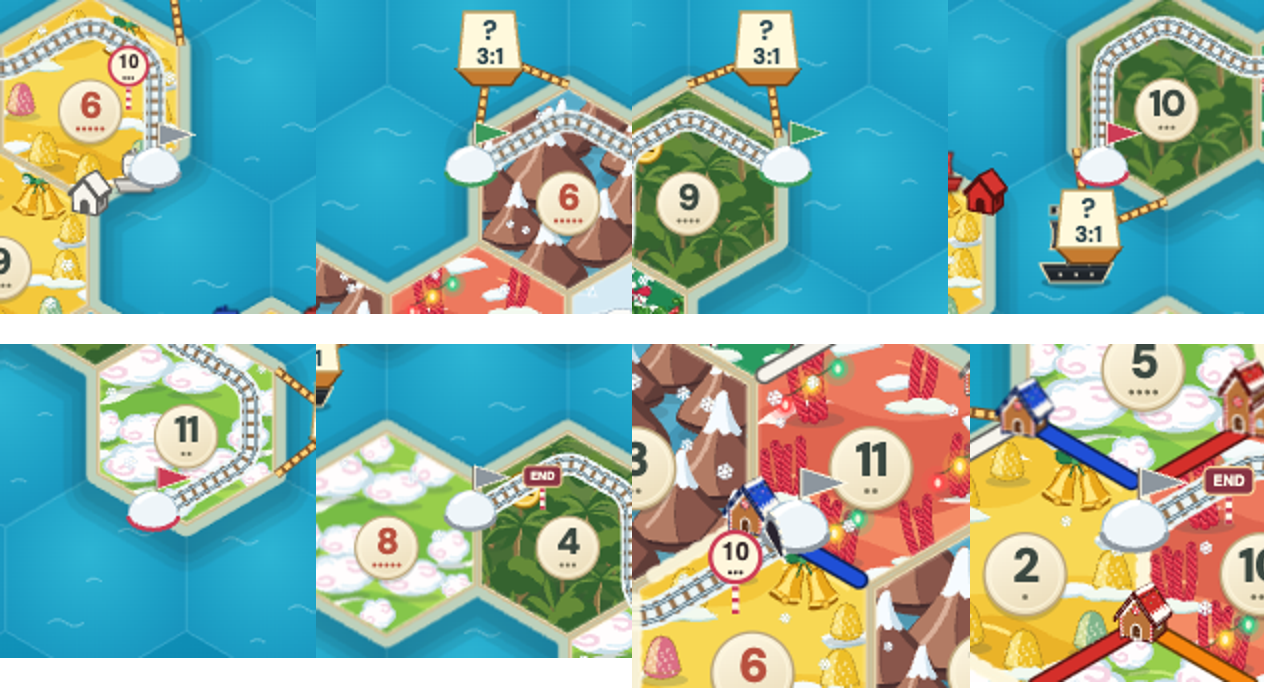
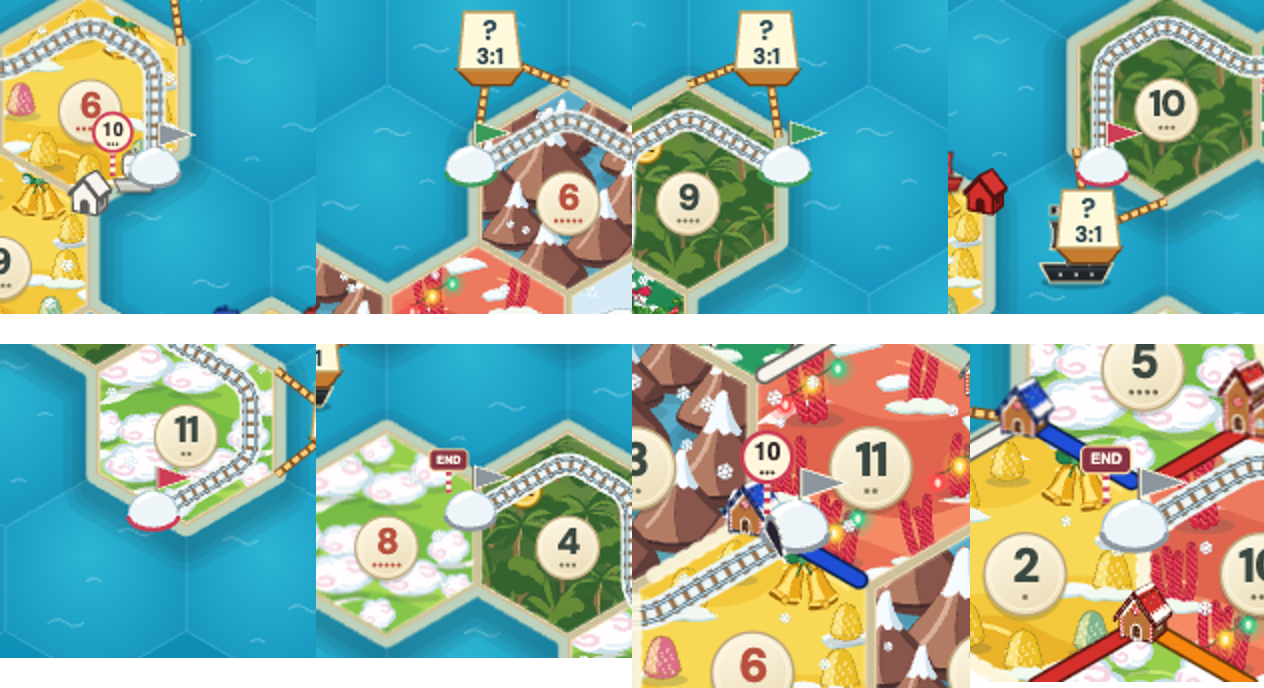
Candy train signs stand right beside their tunnels: they may cover the snowy mound but not the mouth, the rails the train comes out on, or the flag

diff --git a/src/art/v23/christmas/train-stations.tsx b/src/art/v23/christmas/train-stations.tsx
@@ -45,15 +45,25 @@ function moundAt(path: RailSample[], end: boolean): RailPoint {
   return { x: x + dx * MOUND.back, y: y + dy * MOUND.back };
 }
 
-/** The screen box a tunnel covers, mound and flag. */
-function tunnelBox(path: RailSample[], end: boolean): Box {
+/** Boxes a sign must stay off: the tunnel mouth with the rails the train comes out on, and the flag. */
+function keepClear(path: RailSample[], end: boolean): Box[] {
+  const { x, y, dx, dy } = railEnd(path, end);
   const m = moundAt(path, end);
-  return {
-    left: m.x - MOUND.radius,
-    right: Math.max(m.x + MOUND.radius, m.x + 2.6 + FLAG.long),
-    top: m.y - MOUND.rise - FLAG.pole,
-    bottom: m.y + MOUND.radius * 0.55,
-  };
+  const face = { x: x + dx * 2.4, y: y + dy * 2.4 };
+  const length = path.at(-1)!.distance;
+  const rails = path
+    .filter(p => (end ? length - p.distance : p.distance) < 30)
+    .map(p => ({ left: p.x - 7, right: p.x + 7, top: p.y - 14, bottom: p.y + 6 }));
+  return [
+    ...rails,
+    { left: face.x - ARCH.half, right: face.x + ARCH.half, top: face.y - ARCH.high, bottom: face.y + 4 },
+    {
+      left: m.x,
+      right: m.x + 2.6 + FLAG.long,
+      top: m.y - MOUND.rise - FLAG.pole - 1,
+      bottom: m.y - MOUND.rise - FLAG.pole + FLAG.deep + 1,
+    },
+  ];
 }
 
 const overlap = (a: Box, b: Box) =>
@@ -61,24 +71,28 @@ const overlap = (a: Box, b: Box) =>
   Math.max(0, Math.min(a.bottom, b.bottom) - Math.max(a.top, b.top));
 
 /**
- * Where a station's sign stands: beside the track near its tunnel, clear of the mound and flag.
- * It tries the tile's side of the rails (`side`, as railPath offsets them) first, stepping back
- * along the track, then the other side; failing all, the spot covering the least of the tunnel.
+ * Where a station's sign stands: as close to its tunnel as it can without covering the mouth, the
+ * rails the train comes out on, or the flag (the snowy mound may be covered). Ties go to the tile's
+ * side of the rails (`side`, as railPath offsets them); failing all, the spot covering the least.
  */
 function stationSpot(path: RailSample[], end: boolean, side: 1 | -1): RailPoint {
-  const length = path.at(-1)!.distance;
-  const tunnel = tunnelBox(path, end);
-  let best: RailPoint = { x: 0, y: 0 };
-  let least = Number.POSITIVE_INFINITY;
-  for (const s of [side, -side])
-    for (const back of [2, 10, 18, 26]) {
-      const p = onRail(path, end ? Math.max(0, length - back) : Math.min(length, back));
-      const spot = { x: p.x - Math.sin(p.angle) * s * 15, y: p.y + Math.cos(p.angle) * s * 15 };
+  const { x, y, dx, dy } = railEnd(path, end);
+  const m = moundAt(path, end);
+  const clear = keepClear(path, end);
+  // The tile's side of the rails, as a direction across the track.
+  const along = onRail(path, end ? path.at(-1)!.distance : 0).angle;
+  const tile = { x: -Math.sin(along) * side, y: Math.cos(along) * side };
+  let best: RailPoint = { x, y };
+  let bestScore = Number.POSITIVE_INFINITY;
+  for (let a = -28; a <= 16; a += 4)
+    for (let b = -24; b <= 24; b += 4) {
+      const spot = { x: x + dx * a - dy * b, y: y + dy * a + dx * b };
       const box = { left: spot.x - SIGN.half, right: spot.x + SIGN.half, top: spot.y - SIGN.rise, bottom: spot.y + 3 };
-      const covered = overlap(box, tunnel);
-      if (covered === 0) return spot;
-      if (covered < least) {
-        least = covered;
+      const covered = clear.reduce((sum, c) => sum + overlap(box, c), 0);
+      const away = (spot.x - x) * tile.x + (spot.y - y) * tile.y < 0 ? 6 : 0;
+      const score = covered * 100 + Math.hypot(spot.x - m.x, spot.y - m.y) + away;
+      if (score < bestScore) {
+        bestScore = score;
         best = spot;
       }
     }
